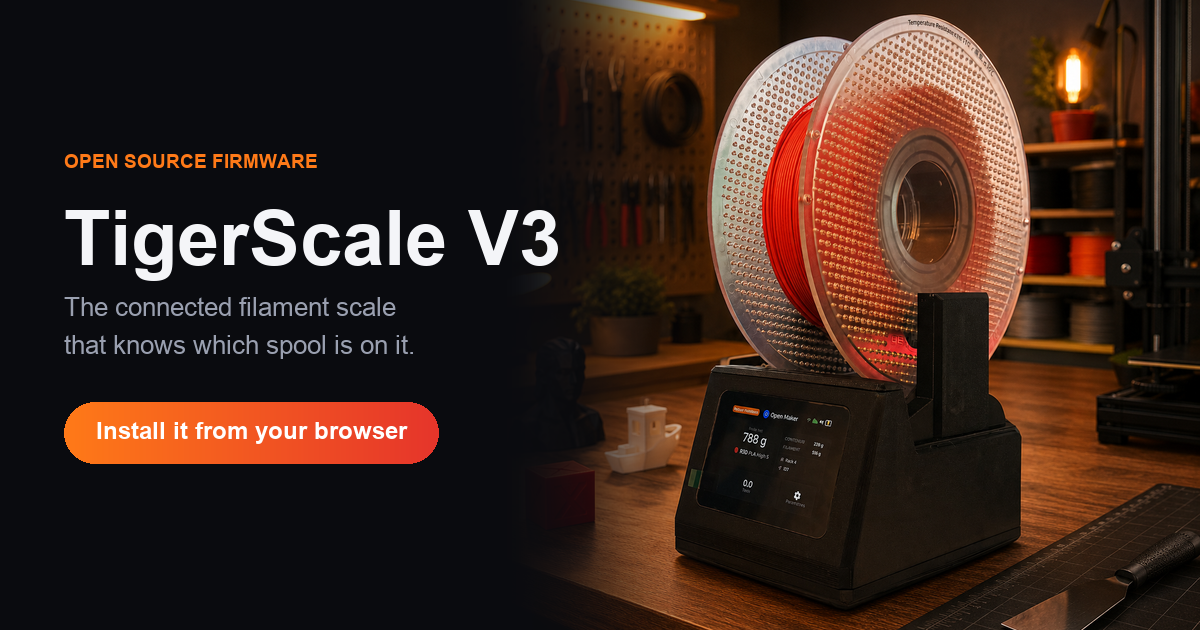
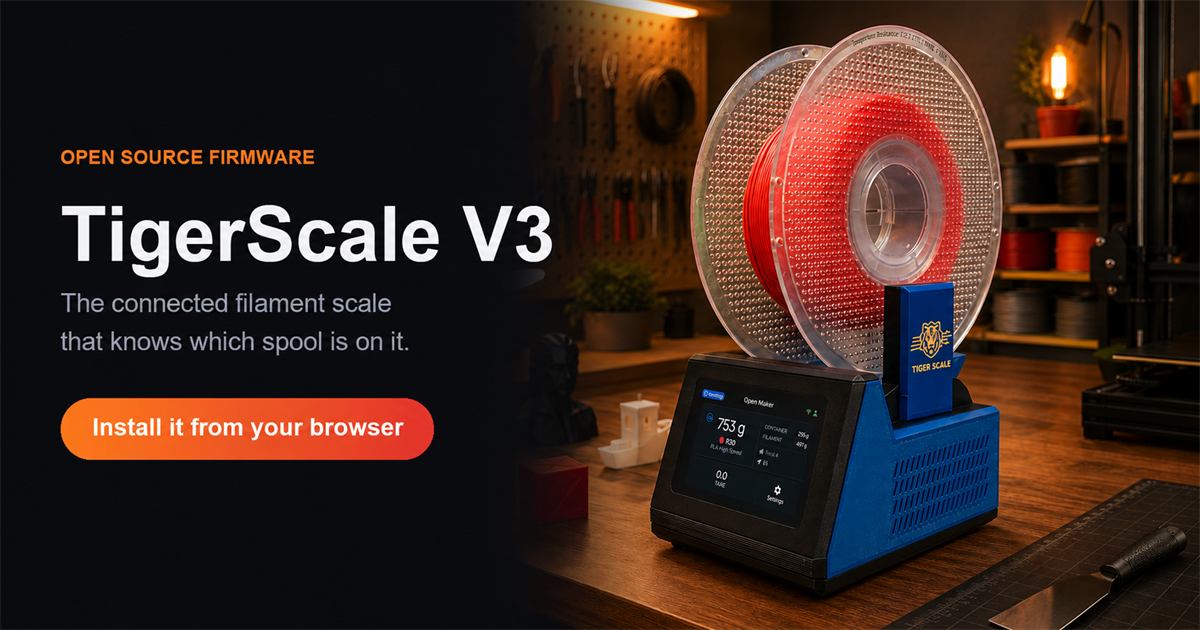
Replace the OG image and installer hero photo with the current enclosure (#14)
Both web-installer/og.png (used for Discord/Slack/Twitter link
previews) and web-installer/tigerscale.png (the hero shot on the
install page itself) still showed an earlier build without the blue
enclosure. Swapped in studio photos of the current build, same
filenames and same dimensions as what they replace (1200x630 and
760x760 respectively), so nothing else needs to change.

Also updates og:image:alt in index.html: the new OG photo's screen
reads 753 g, not the 788 g the old alt text described.

diff --git a/web-installer/index.html b/web-installer/index.html
@@ -16,7 +16,7 @@
 <meta property="og:image" content="https://tigertag-project.github.io/Tiger-Scale-V3/og.png">
 <meta property="og:image:width" content="1200">
 <meta property="og:image:height" content="630">
-<meta property="og:image:alt" content="A TigerScale V3 on a workbench weighing a spool of red filament, its screen reading 788 g">
+<meta property="og:image:alt" content="A TigerScale V3 on a workbench weighing a spool of red filament, its screen reading 753 g">
 <meta property="og:url" content="https://tigertag-project.github.io/Tiger-Scale-V3/">
 <meta name="twitter:card" content="summary_large_image">
 <meta name="twitter:image" content="https://tigertag-project.github.io/Tiger-Scale-V3/og.png">
